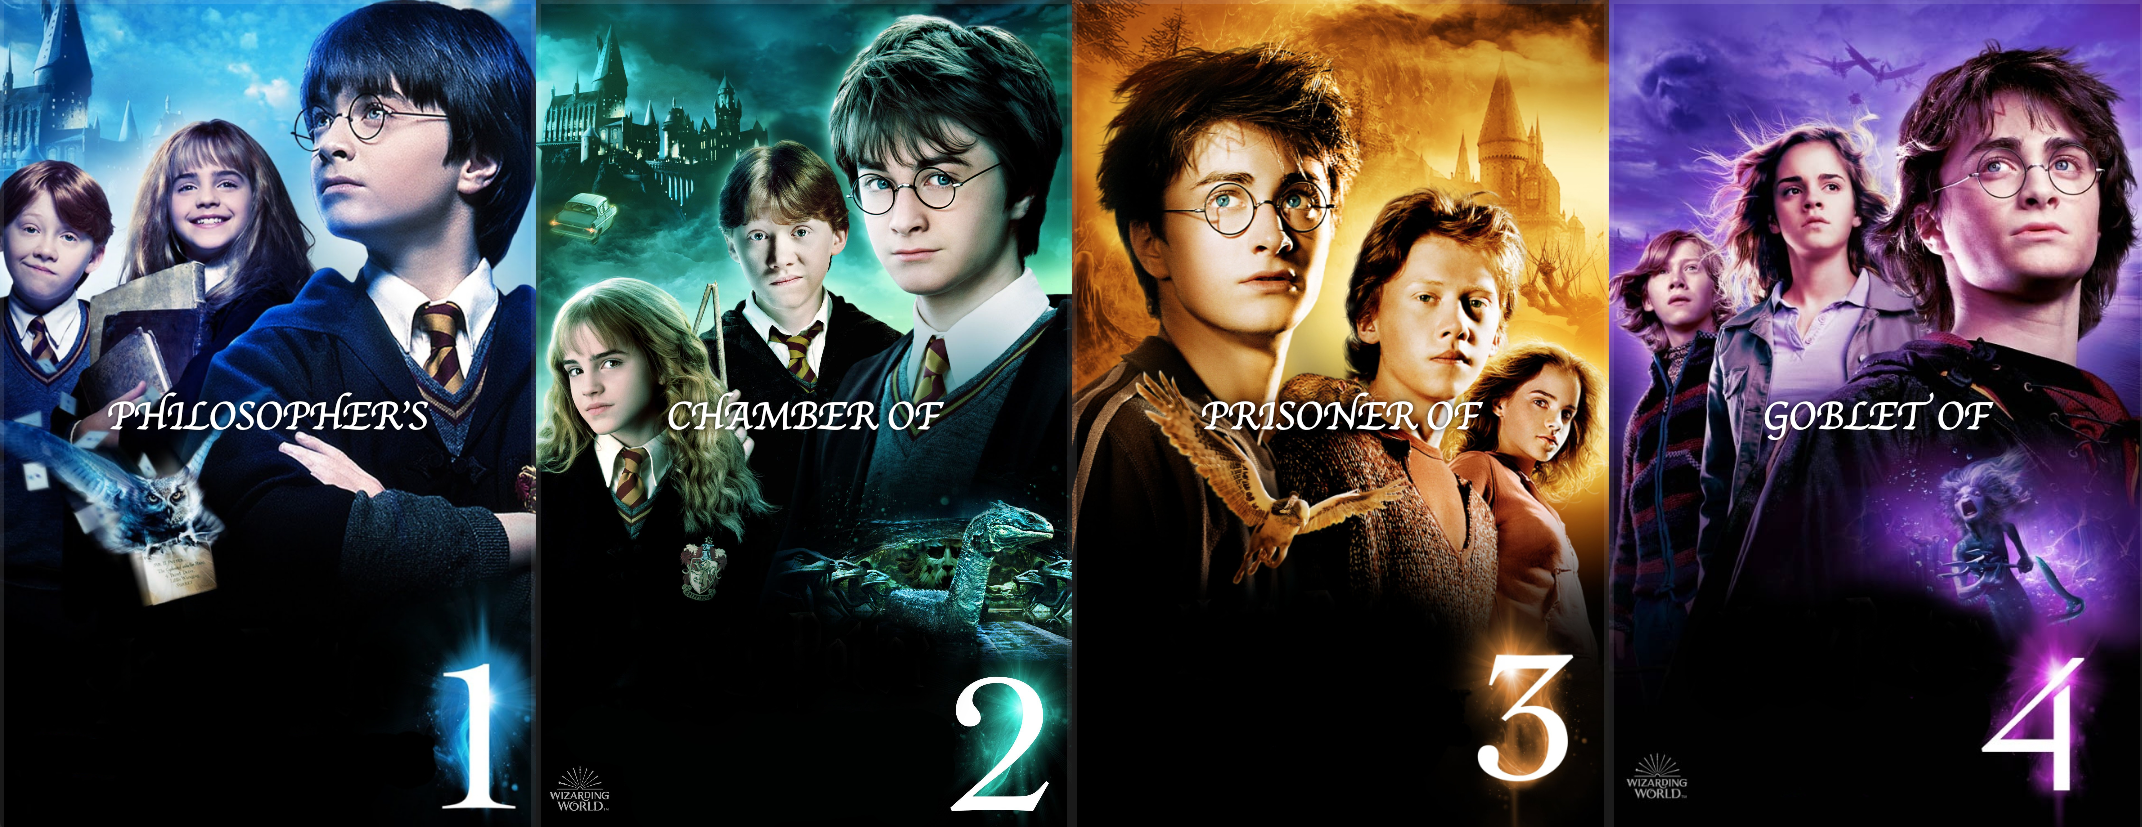
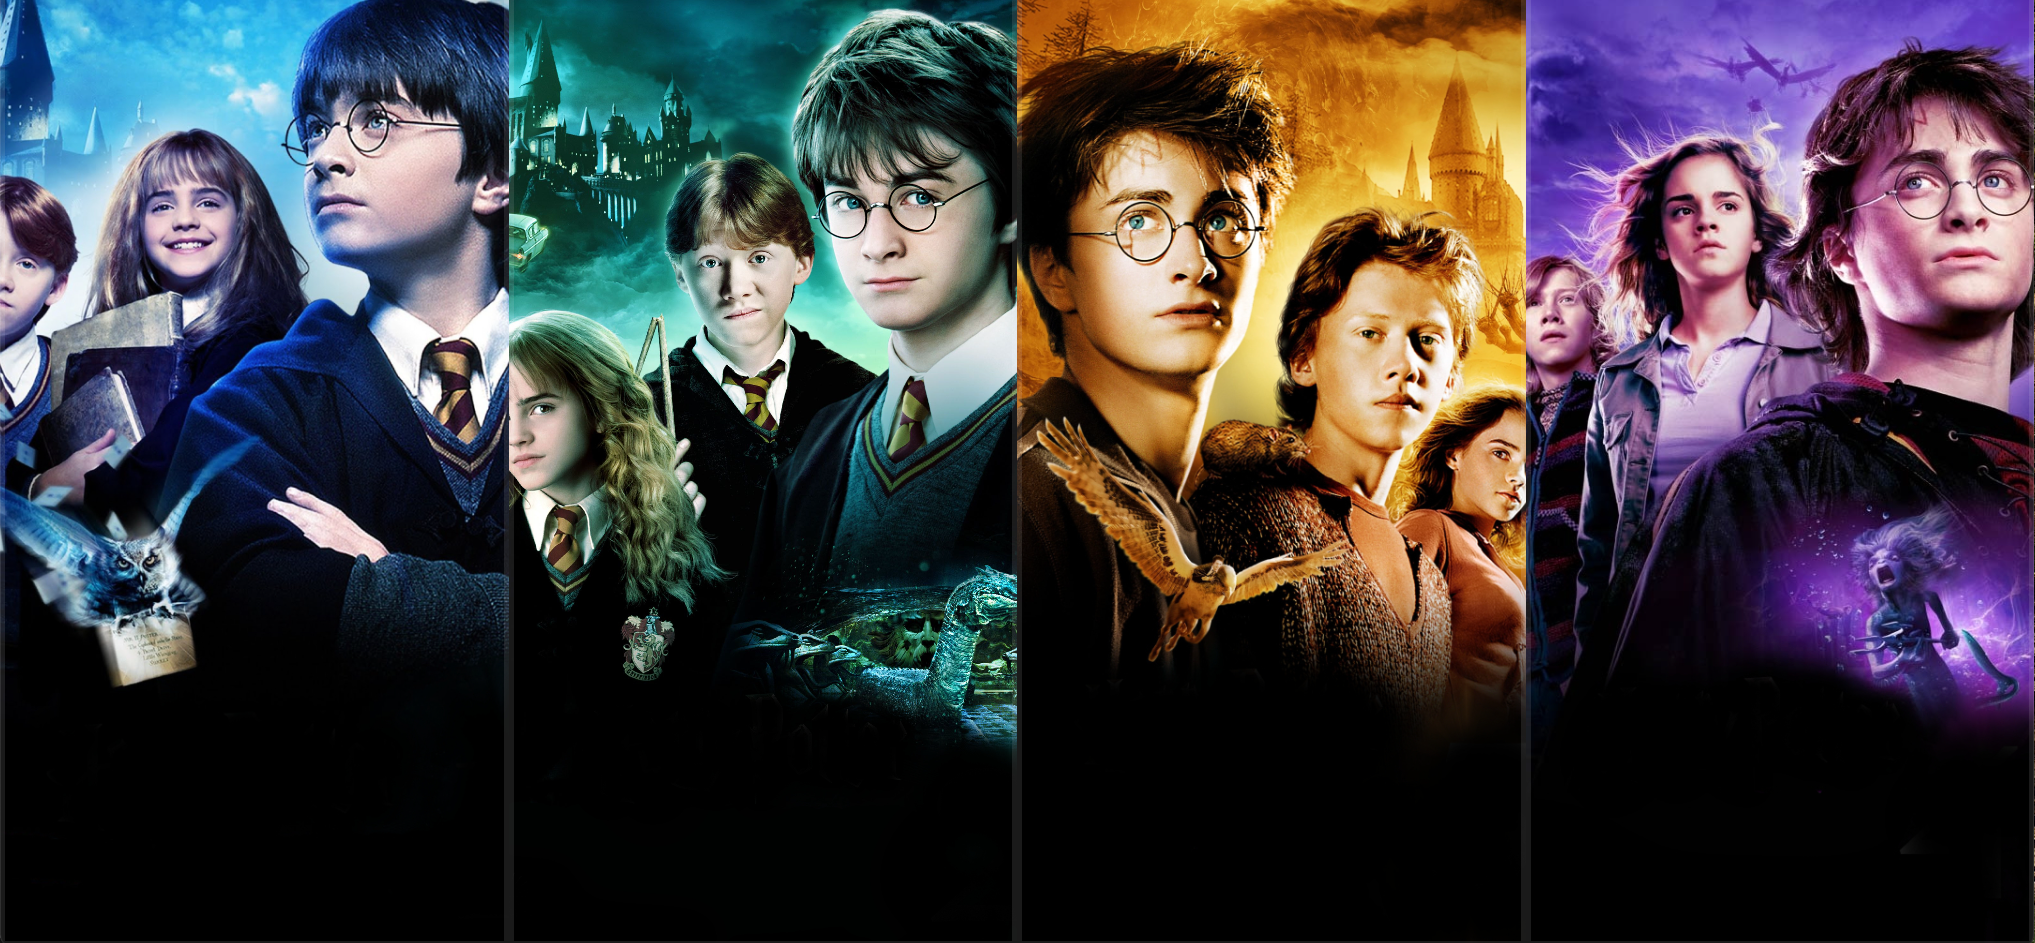
Update the images of movies, and add the screenshot for the whole application

diff --git a/styles.css b/styles.css
@@ -51,11 +51,11 @@ body {
   align-items: center;
 }
 
-.panel > *:first-child {
-  transform: translateY(-100%);
+.panel > * {
+  transform: translateY(-200%);
 }
 
-.panel.open-active > *:first-child {
+.panel.open-active > * {
   transform: translateY(0);
 }
 
